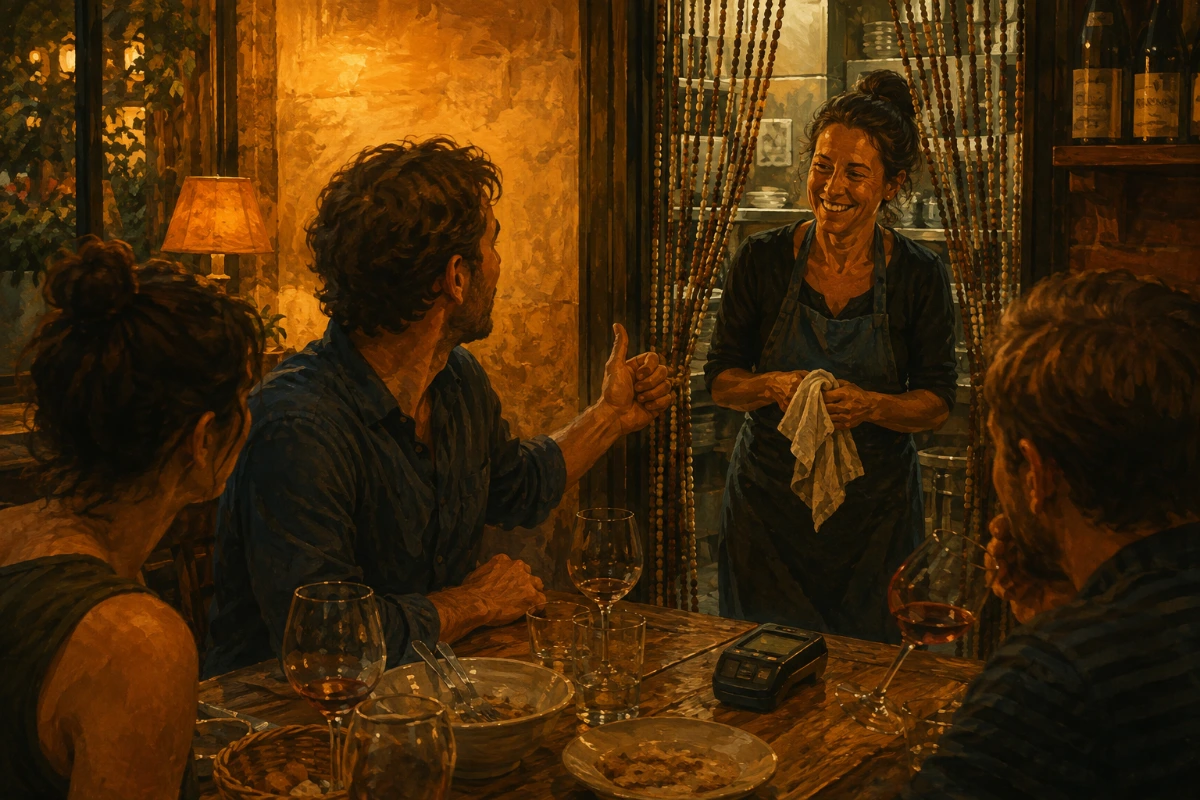
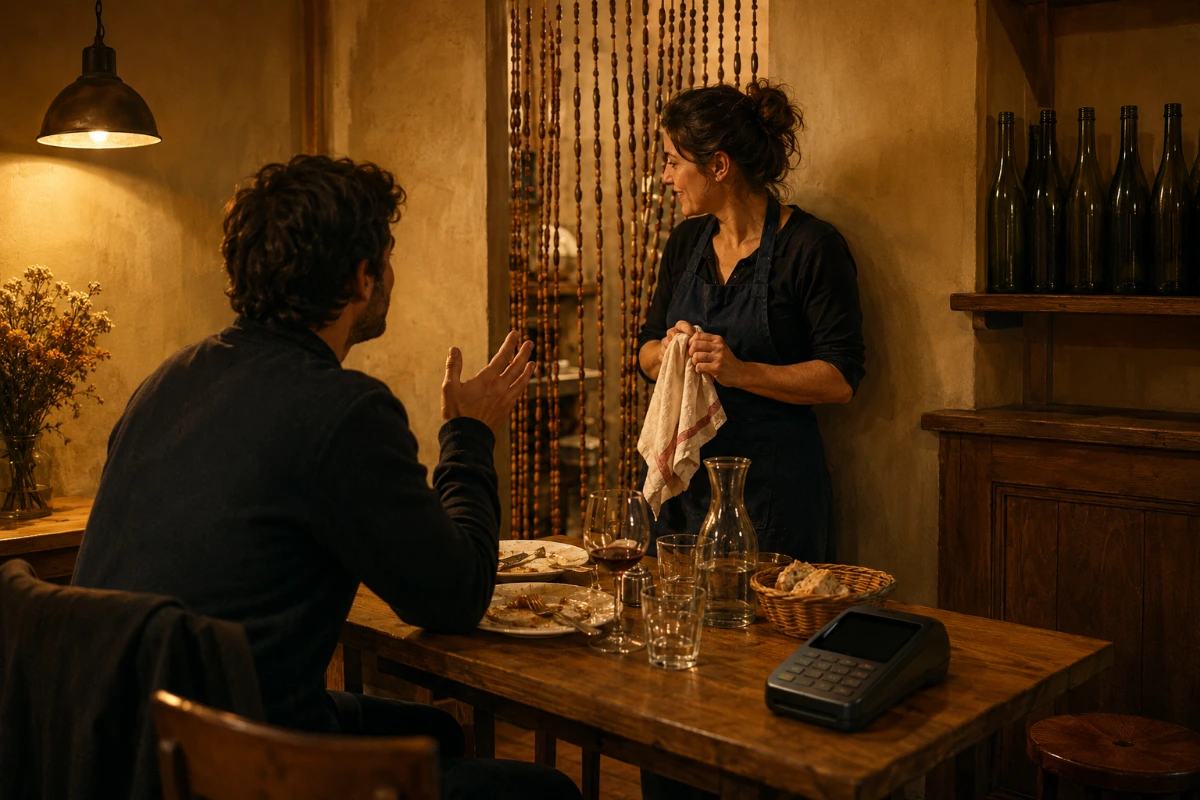
destino-franca: corrige i07 - PASSIVO ZERADO 13/13
Todas as violacoes de pseudo-texto em alemanha e franca foram regeneradas
e conferidas visualmente. Sem duplicatas. Os 15 duvidosos seguem pendentes
de criterio humano.

diff --git a/AUDITORIA-ZERO-TEXTO.md b/AUDITORIA-ZERO-TEXTO.md
@@ -86,8 +86,40 @@ numérico com dígitos."
 Monumentos e marcos geográficos são o padrão aceito — a `b06` de `destino-franca` mostra
 a Torre Eiffel e está aprovada. Isso foi mantido como critério.
 
-## Pendente de decisão do dono
+## RESOLVIDO — 2026-08-04
 
-Regenerar as 15 confirmadas custa ~1h de operação. As 15 duvidosas precisam de um
-critério humano antes de qualquer ação. Nada foi regenerado nestes dois acervos — eles
-seguem exatamente como estavam.
+O dono revisou o critério (ver `CRITERIO-TEXTO.md`): texto é permitido desde que esteja
+no idioma do destino e correto. Sob o critério novo, `franca b17` (cruz de farmácia) e
+`franca b14` (teclado numérico) deixaram de ser violação. As demais permaneceram, porque
+o que têm é **pseudo-texto inventado pelo gerador**, não texto correto.
+
+**As 13 violações remanescentes foram todas regeneradas e commitadas.**
+
+| curso | ids corrigidos |
+|---|---|
+| destino-alemanha | b04, b10, b17, i02, i03, i10 |
+| destino-franca | a01, b02, b06, i02, i03, i05, i07 |
+
+Cada uma foi conferida visualmente antes de substituir o arquivo, e a verificação de md5
+confirma ausência de duplicatas em ambos os acervos.
+
+### O que funcionou
+
+Nomear o objeto específico no prompt, em vez de repetir a proibição genérica:
+
+- painel de partidas → "faixas luminosas e manchas de cor fora de foco, SEM linha de
+  caracteres discernível"
+- rótulos → "garrafas LISAS, vidro colorido puro, sem papel, sem escrita e sem selo"
+- conta/recibo → "retângulo claro LISO e em branco"
+- lousa de menu → "MUITO desfocada, lida apenas como superfície escura"
+- crachá → "cordão liso no pescoço, SEM crachá pendurado"
+
+Onde a cena original já pedia desfoque ("painel luminoso e desfocado", "lousa de menu
+desfocada"), a correção foi só reforçar o que o pedido já dizia — o gerador é que havia
+ignorado.
+
+## Ainda pendente: os 15 duvidosos
+
+Continuam sem ação, à espera de critério humano. São casos onde não dá para afirmar, na
+resolução entregue, se a marca é texto ou textura — rótulo borrado, etiqueta de gola,
+marcas em toldo distante. Lista completa na seção acima.
